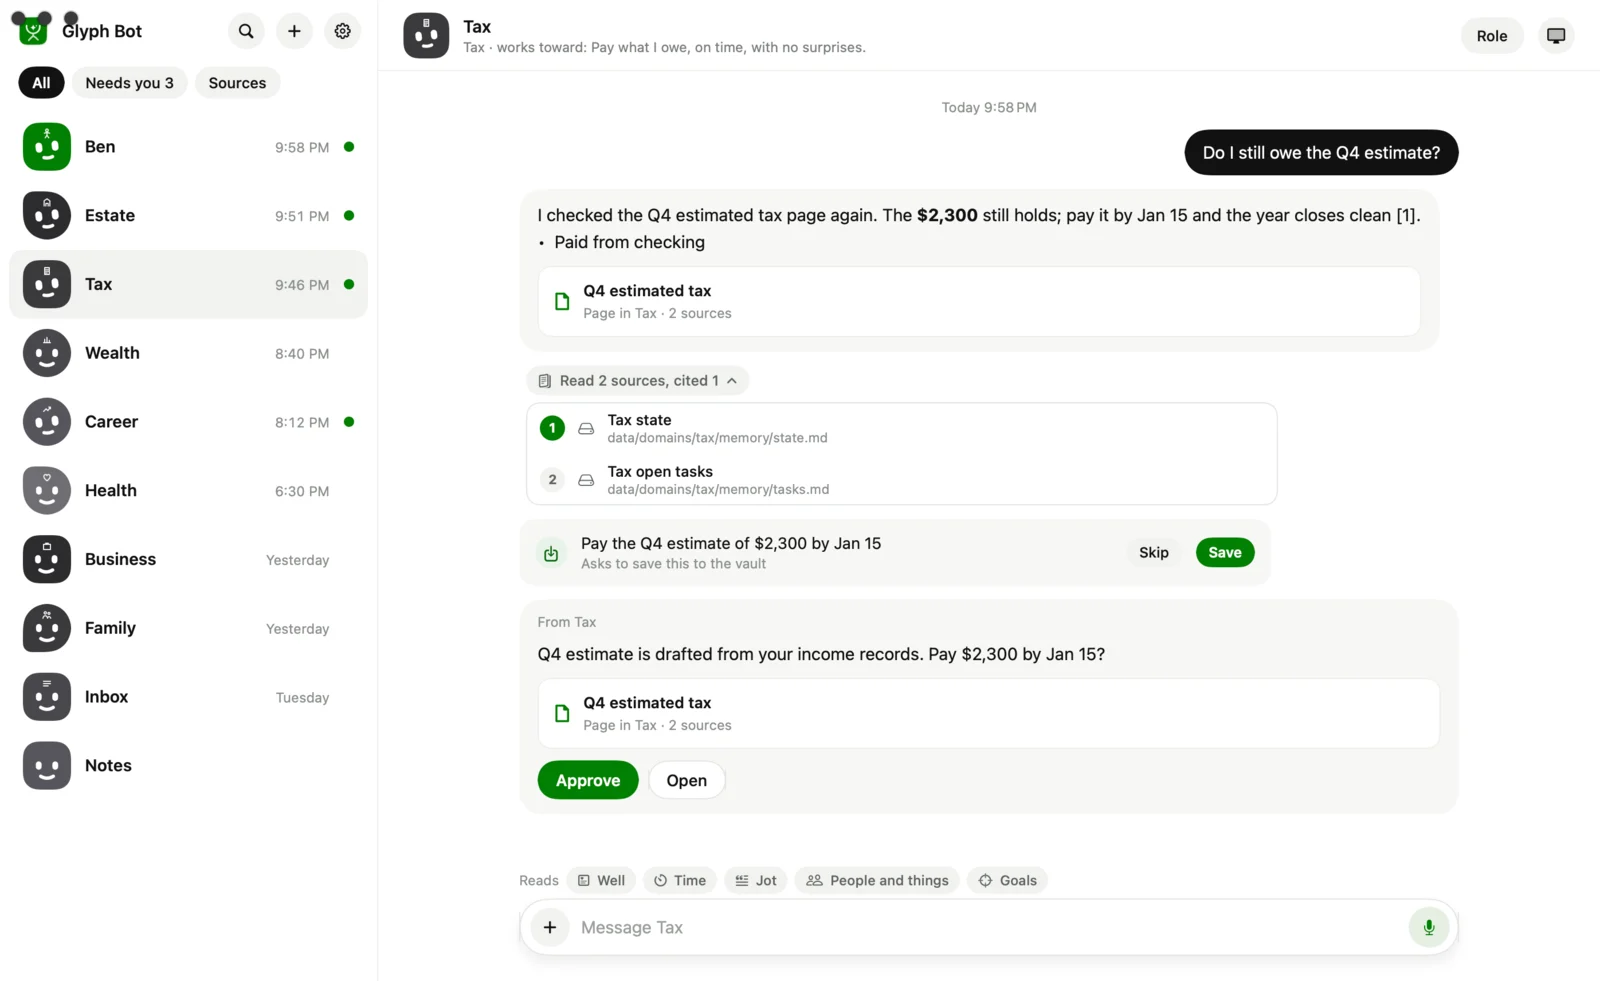
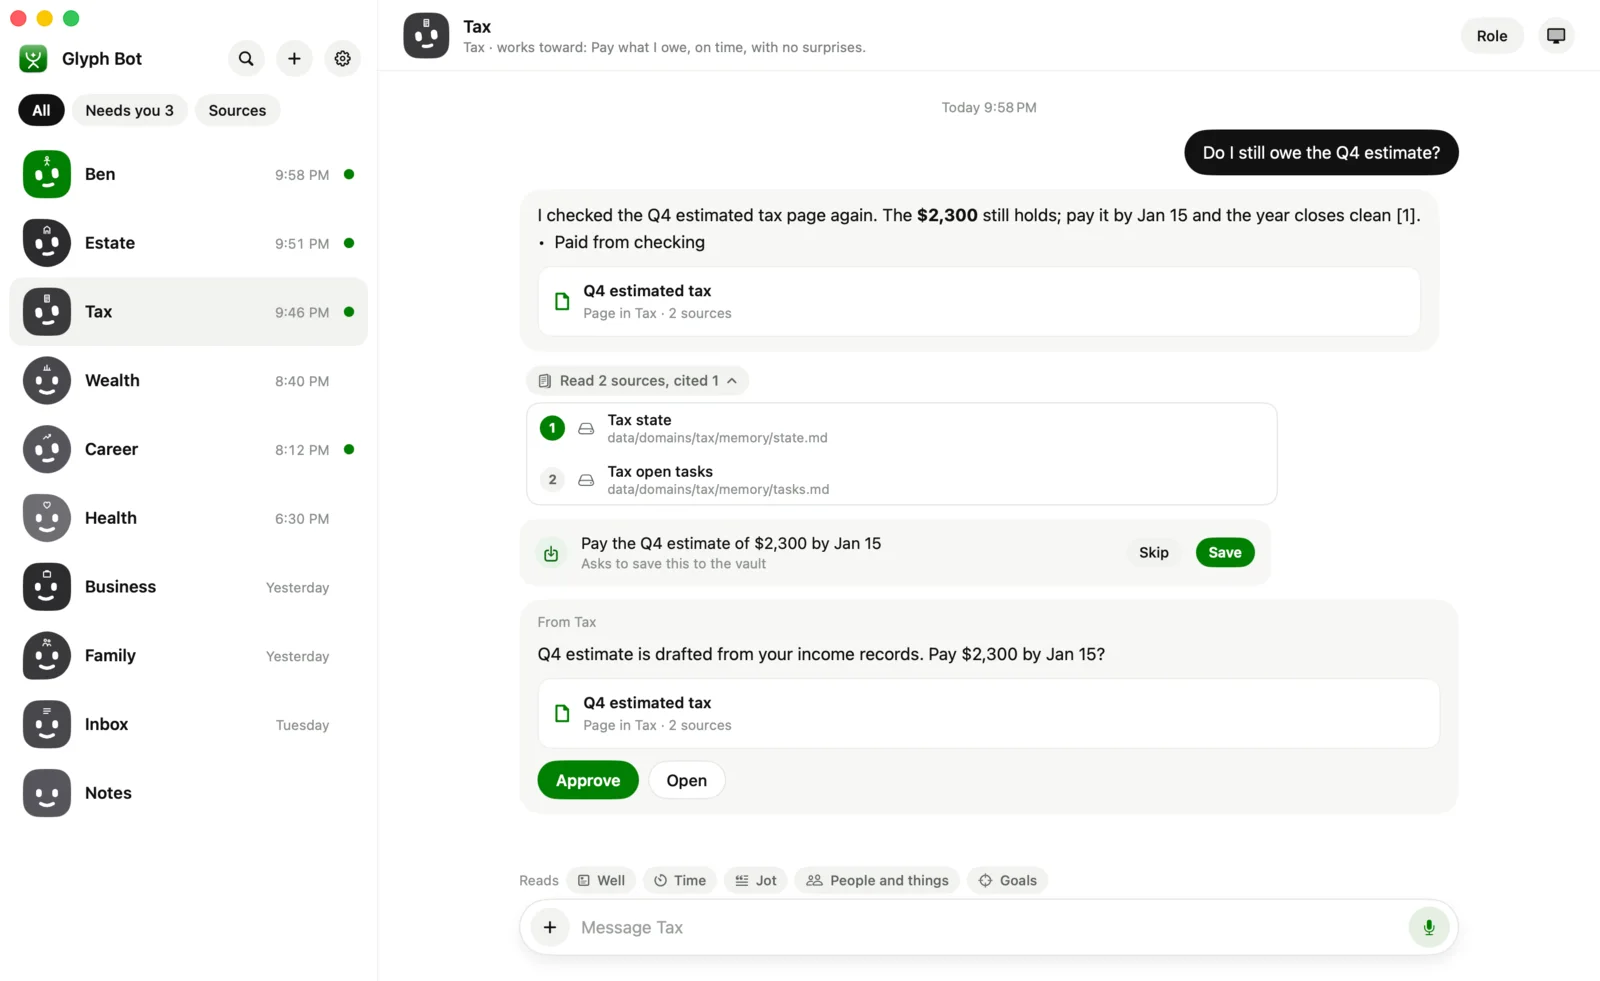
The Bot page: its install note under its button, its faces current, its picture the fixed window
Looked at glyph.fru.dev/bot at 390, 820, 1440 and 1920 on 2026-11-20.

- On the two-column page the line "Glyph Native installs Glyph Bot and keeps it
  up to date" sat under the fine print, centred in a left-aligned column. Its
  order was written for the one-column page and nothing else in the wide column
  is ordered. It now follows its button, left-aligned. The rule is in site.css,
  so every app page gets it; /time was pictured too.
- One face in the stargazer strip was a broken image showing its alt text. The
  stargazer step still wrote to studio/index.html, a redirect with no markers
  since the page moved to /bot, so /bot kept a face whose picture had been
  pruned. The step names bot/index.html now and the strip is regenerated.
- The picture is retaken from the app after its window buttons stopped
  covering its mark and name. Made-up vault, as before.

Checked: no sideways scroll at any of the four widths, every stargazer picture
a page names exists, the home page still draws the same picture. Not deployed.

Claude-Session: https://claude.ai/code/session_019UfBe6CA6DVZ3L3Mc1dver

diff --git a/docs/bot/index.html b/docs/bot/index.html
@@ -75,7 +75,7 @@
   </div>
   <div class="right">
     <!-- stargazers -->
-    <div class="proof"><div class="faces"><a href="https://github.com/digitalhustlerx" target="_blank" rel="noreferrer" title="digitalhustlerx"><img src="/stargazers/digitalhustlerx.png" width="40" height="40" alt="digitalhustlerx" loading="lazy"></a><a href="https://github.com/Wishtrader" target="_blank" rel="noreferrer" title="Wishtrader"><img src="/stargazers/Wishtrader.png" width="40" height="40" alt="Wishtrader" loading="lazy"></a><a href="https://github.com/hamedelbhrawy" target="_blank" rel="noreferrer" title="hamedelbhrawy"><img src="/stargazers/hamedelbhrawy.png" width="40" height="40" alt="hamedelbhrawy" loading="lazy"></a><a href="https://github.com/tranngochung0885-pixel" target="_blank" rel="noreferrer" title="tranngochung0885-pixel"><img src="/stargazers/tranngochung0885-pixel.png" width="40" height="40" alt="tranngochung0885-pixel" loading="lazy"></a><a href="https://github.com/MDsniper" target="_blank" rel="noreferrer" title="MDsniper"><img src="/stargazers/MDsniper.png" width="40" height="40" alt="MDsniper" loading="lazy"></a><a href="https://github.com/DFA5" target="_blank" rel="noreferrer" title="DFA5"><img src="/stargazers/DFA5.png" width="40" height="40" alt="DFA5" loading="lazy"></a><a href="https://github.com/sina-chobak" target="_blank" rel="noreferrer" title="sina-chobak"><img src="/stargazers/sina-chobak.png" width="40" height="40" alt="sina-chobak" loading="lazy"></a><a href="https://github.com/RajaRuling" target="_blank" rel="noreferrer" title="RajaRuling"><img src="/stargazers/RajaRuling.png" width="40" height="40" alt="RajaRuling" loading="lazy"></a><a href="https://github.com/usblsb" target="_blank" rel="noreferrer" title="usblsb"><img src="/stargazers/usblsb.png" width="40" height="40" alt="usblsb" loading="lazy"></a><a href="https://github.com/asthort" target="_blank" rel="noreferrer" title="asthort"><img src="/stargazers/asthort.png" width="40" height="40" alt="asthort" loading="lazy"></a><a href="https://github.com/joseindie" target="_blank" rel="noreferrer" title="joseindie"><img src="/stargazers/joseindie.png" width="40" height="40" alt="joseindie" loading="lazy"></a><a href="https://github.com/pat-dubois" target="_blank" rel="noreferrer" title="pat-dubois"><img src="/stargazers/pat-dubois.png" width="40" height="40" alt="pat-dubois" loading="lazy"></a><span class="more">+24</span></div><p><a href="https://github.com/fru-dev3/glyph-studio" target="_blank" rel="noreferrer"><b>36</b><span class="dv"> developers</span> starred Glyph Bot<svg class="heart" viewBox="0 0 24 24" fill="currentColor" aria-hidden="true"><path d="M12 21s-7.5-4.6-10-9.3C.4 8.4 2.3 4.5 6.2 4.5c2.4 0 4 1.4 5.8 3.5 1.8-2.1 3.4-3.5 5.8-3.5 3.9 0 5.8 3.9 4.2 7.2C19.5 16.4 12 21 12 21z"/></svg></a></p></div>
+    <div class="proof"><div class="faces"><a href="https://github.com/pratofeitoo" target="_blank" rel="noreferrer" title="pratofeitoo"><img src="/stargazers/pratofeitoo.png" width="40" height="40" alt="pratofeitoo" loading="lazy"></a><a href="https://github.com/digitalhustlerx" target="_blank" rel="noreferrer" title="digitalhustlerx"><img src="/stargazers/digitalhustlerx.png" width="40" height="40" alt="digitalhustlerx" loading="lazy"></a><a href="https://github.com/Wishtrader" target="_blank" rel="noreferrer" title="Wishtrader"><img src="/stargazers/Wishtrader.png" width="40" height="40" alt="Wishtrader" loading="lazy"></a><a href="https://github.com/hamedelbhrawy" target="_blank" rel="noreferrer" title="hamedelbhrawy"><img src="/stargazers/hamedelbhrawy.png" width="40" height="40" alt="hamedelbhrawy" loading="lazy"></a><a href="https://github.com/tranngochung0885-pixel" target="_blank" rel="noreferrer" title="tranngochung0885-pixel"><img src="/stargazers/tranngochung0885-pixel.png" width="40" height="40" alt="tranngochung0885-pixel" loading="lazy"></a><a href="https://github.com/MDsniper" target="_blank" rel="noreferrer" title="MDsniper"><img src="/stargazers/MDsniper.png" width="40" height="40" alt="MDsniper" loading="lazy"></a><a href="https://github.com/DFA5" target="_blank" rel="noreferrer" title="DFA5"><img src="/stargazers/DFA5.png" width="40" height="40" alt="DFA5" loading="lazy"></a><a href="https://github.com/sina-chobak" target="_blank" rel="noreferrer" title="sina-chobak"><img src="/stargazers/sina-chobak.png" width="40" height="40" alt="sina-chobak" loading="lazy"></a><a href="https://github.com/RajaRuling" target="_blank" rel="noreferrer" title="RajaRuling"><img src="/stargazers/RajaRuling.png" width="40" height="40" alt="RajaRuling" loading="lazy"></a><a href="https://github.com/usblsb" target="_blank" rel="noreferrer" title="usblsb"><img src="/stargazers/usblsb.png" width="40" height="40" alt="usblsb" loading="lazy"></a><a href="https://github.com/asthort" target="_blank" rel="noreferrer" title="asthort"><img src="/stargazers/asthort.png" width="40" height="40" alt="asthort" loading="lazy"></a><a href="https://github.com/joseindie" target="_blank" rel="noreferrer" title="joseindie"><img src="/stargazers/joseindie.png" width="40" height="40" alt="joseindie" loading="lazy"></a><span class="more">+25</span></div><p><a href="https://github.com/fru-dev3/glyph-studio" target="_blank" rel="noreferrer"><b>37</b><span class="dv"> developers</span> starred Glyph Bot<svg class="heart" viewBox="0 0 24 24" fill="currentColor" aria-hidden="true"><path d="M12 21s-7.5-4.6-10-9.3C.4 8.4 2.3 4.5 6.2 4.5c2.4 0 4 1.4 5.8 3.5 1.8-2.1 3.4-3.5 5.8-3.5 3.9 0 5.8 3.9 4.2 7.2C19.5 16.4 12 21 12 21z"/></svg></a></p></div>
     <!-- /stargazers -->
     <img class="shot fill" data-ar="1.6293" src="/bot/chat-sources.webp" width="1600" height="982" alt="Glyph Bot on the Mac: the Tax agent answers a question about the Q4 estimate, lists the two sources it read and the one it cited, and asks before saving to the vault" fetchpriority="high">
   </div>

diff --git a/docs/site.css b/docs/site.css
@@ -215,6 +215,9 @@ footer .built .heart-i{display:inline-block;vertical-align:-2px;margin:0 1px}
 .nat{margin:0;width:100%;text-align:center;font-size:13px;font-weight:600;color:var(--soft)}
 .nat a{color:var(--green);font-weight:700}
 .nat{order:4}
+/* That order is the one-column page's (it shares 4 with the button it explains). On the two-column
+   page nothing else is ordered, so it sank under the fine print, centred in a left-aligned column. */
+@media (min-width:960px) and (min-height:560px){.nat{order:0;text-align:left}}
 /* The version the Install button will download, small and quiet beside the platform line. */
 .dlv{margin-left:7px;padding:1px 6px;border-radius:999px;background:var(--card,rgba(0,0,0,.05));border:1px solid var(--line,rgba(0,0,0,.08));font-size:.78em;font-weight:700;font-variant-numeric:tabular-nums;color:var(--soft,#667)}
 .dlv::before{content:"v"}
